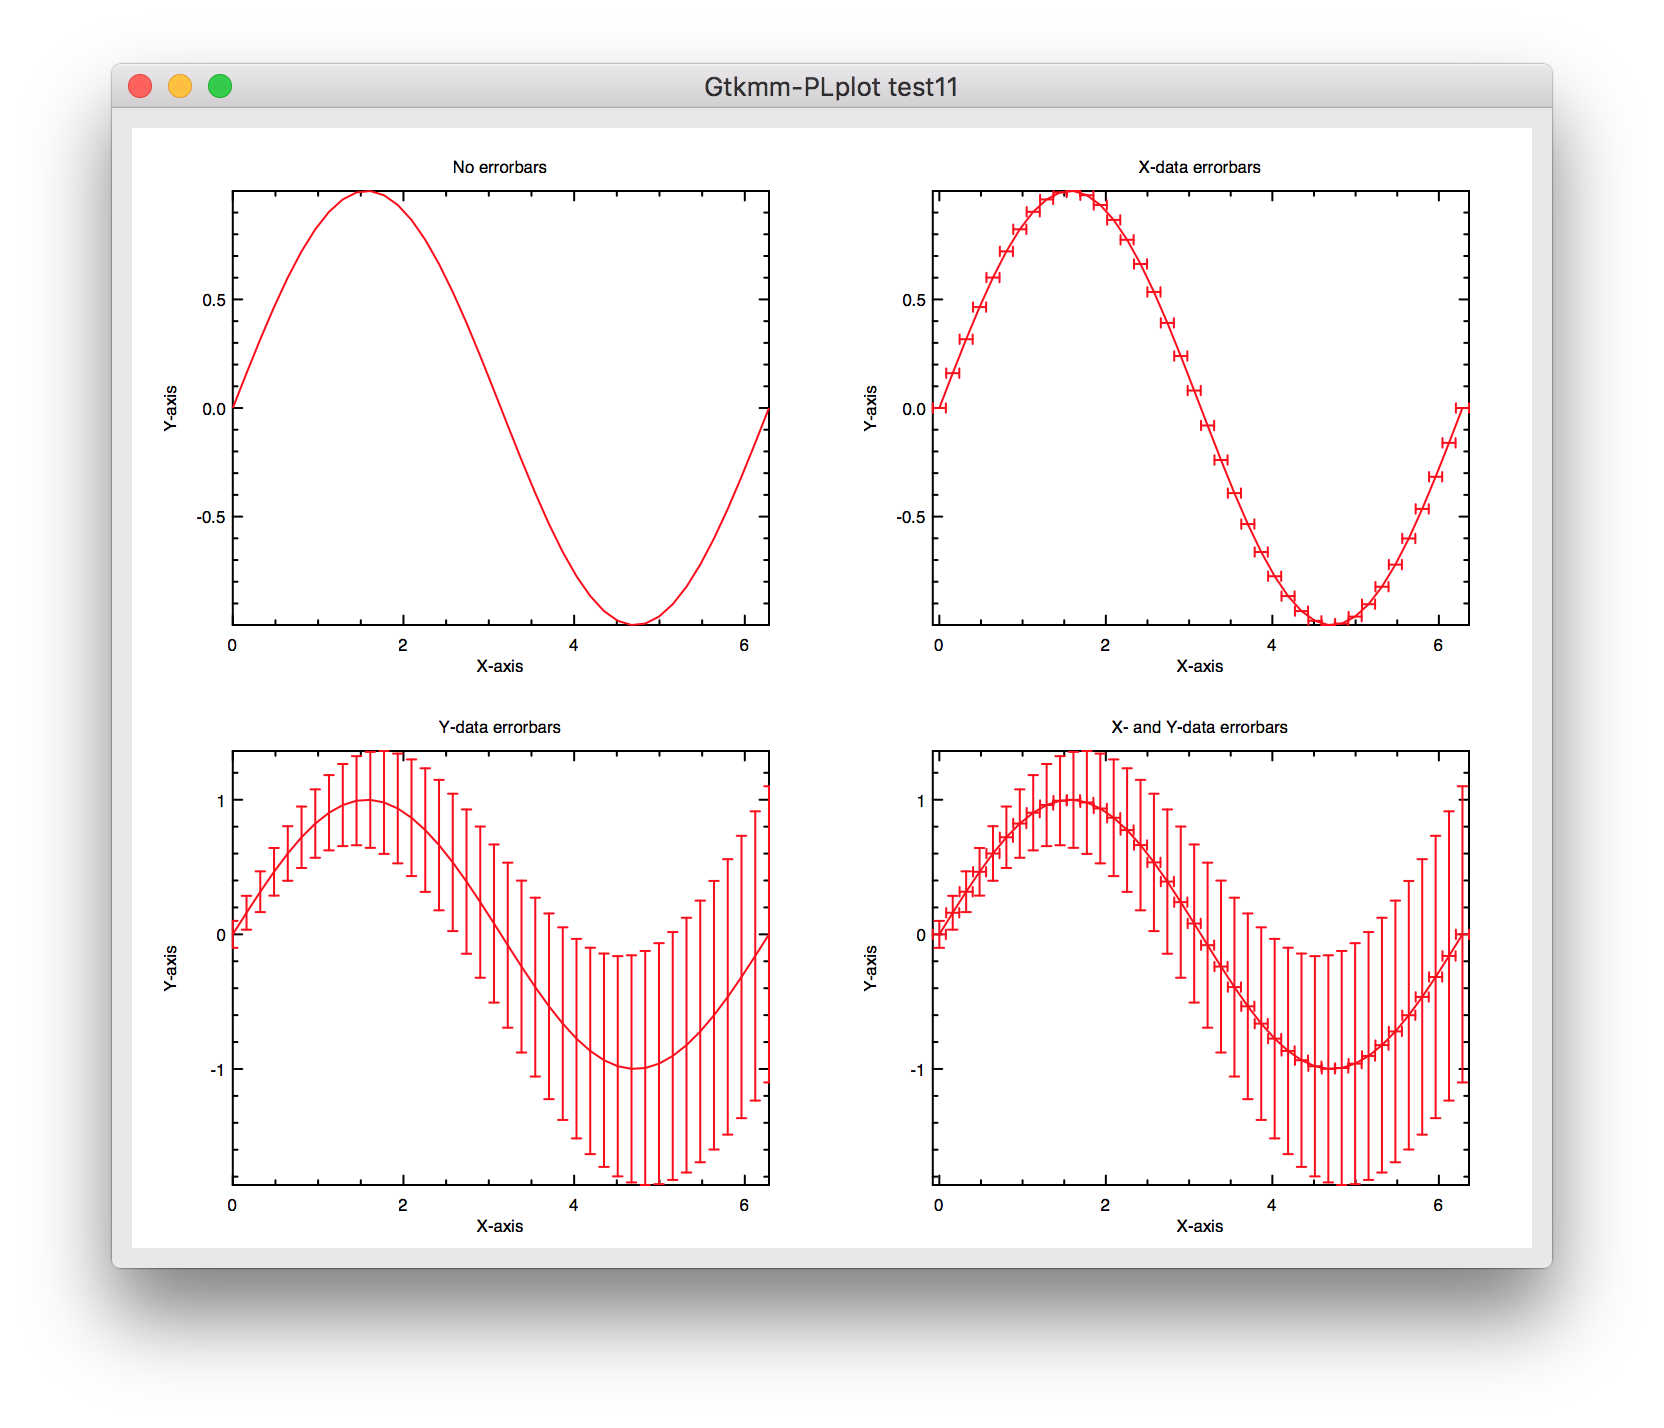
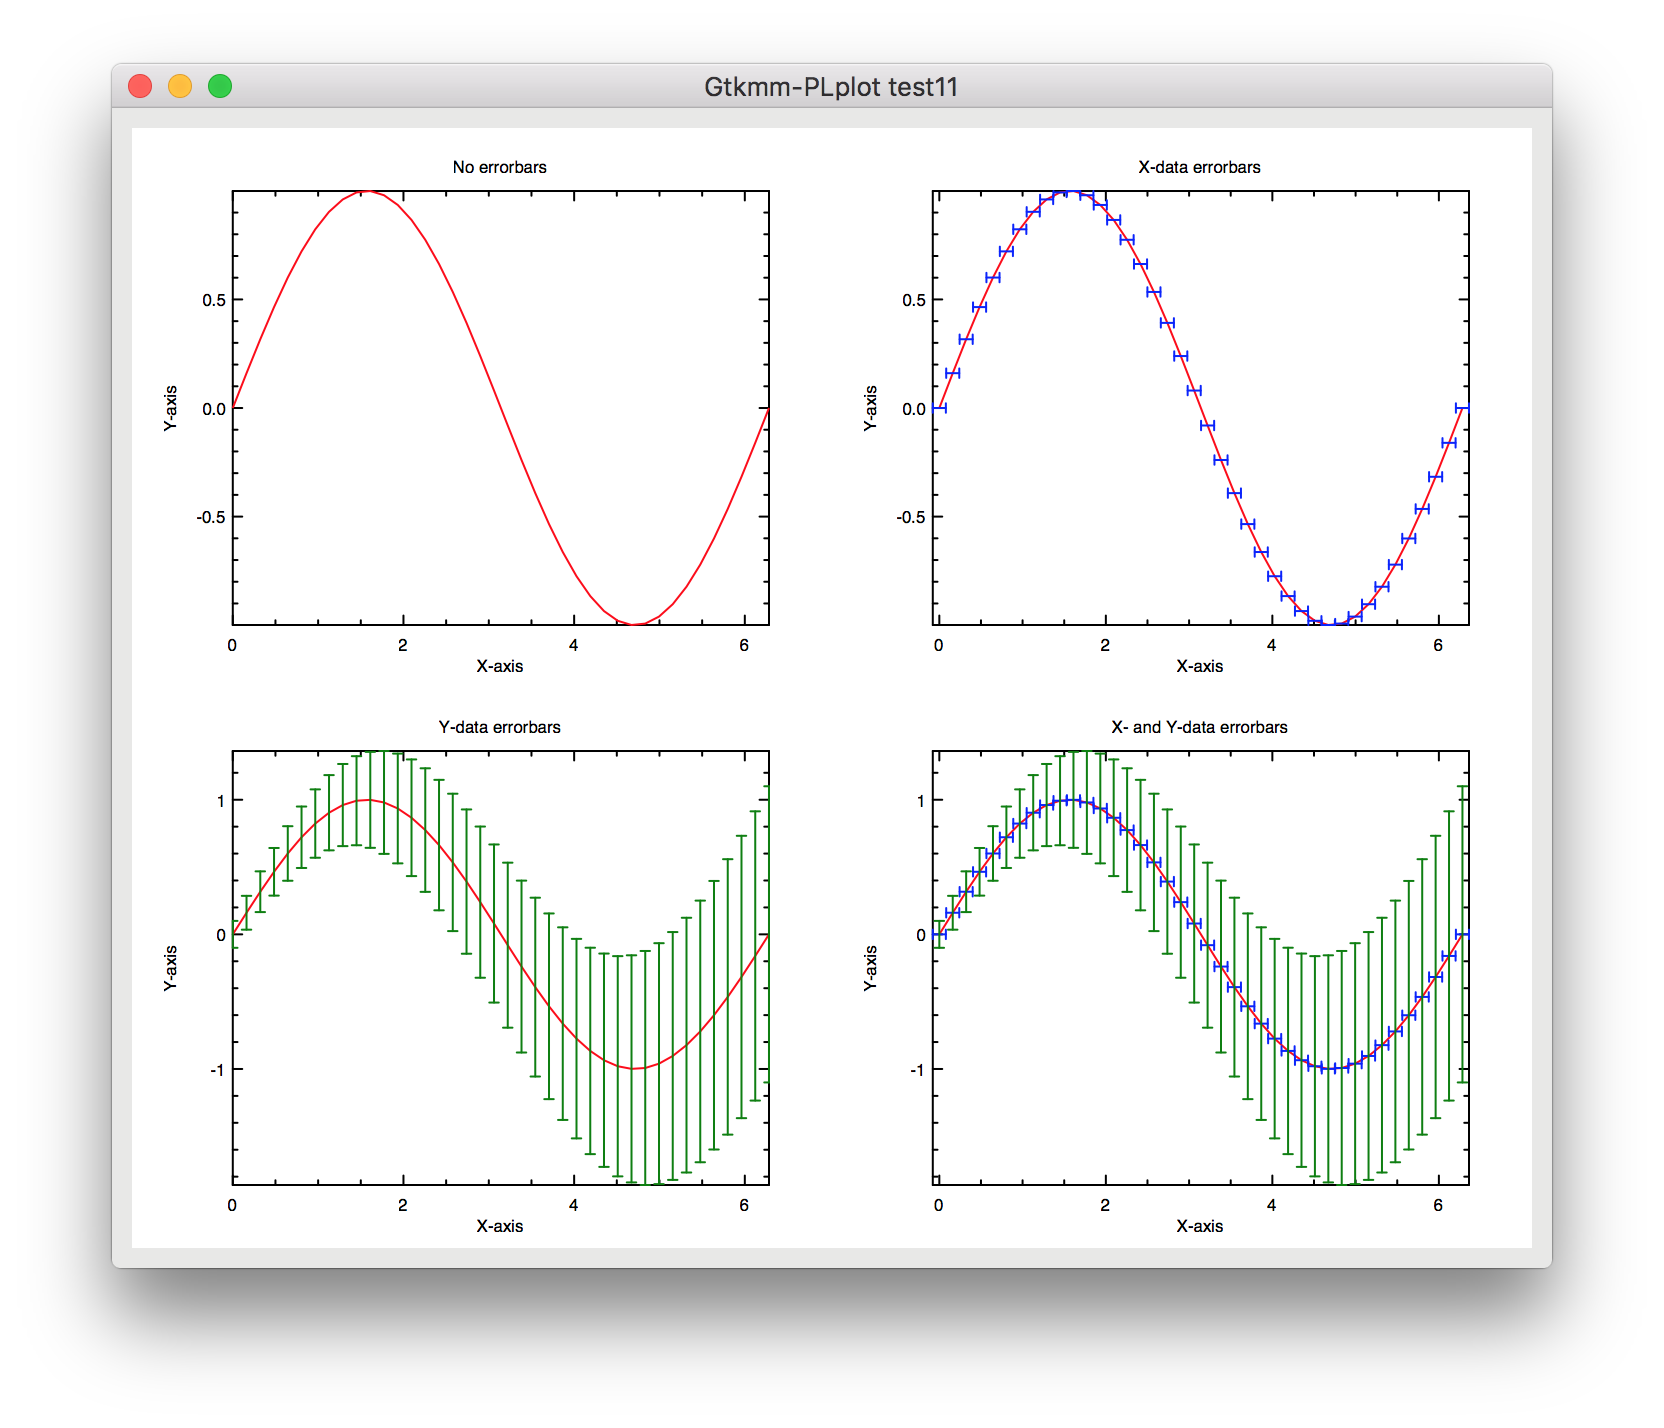
Some more last minute changes...
Some math macros are not part of C++11, so they need to be defined when
I need them

Changed region(s): [[0.1562, 0.5238, 0.4688, 0.8319], [0.5625, 0.5238, 0.875, 0.8319], [0.625, 0.1232, 0.6562, 0.1541]]

diff --git a/tests/test11.cpp b/tests/test11.cpp
@@ -21,6 +21,10 @@ along with this program.  If not, see <http://www.gnu.org/licenses/>.
 #include <gtkmm/window.h>
 #include <valarray>
 
+#ifndef M_PI
+#define M_PI (3.14159265358979323846)
+#endif
+
 namespace Test11 {
   class Window : public Gtk::Window {
   private:
@@ -57,13 +61,19 @@ namespace Test11 {
         plot_2d_error_y(plot_data_2d_error_y, "X-axis", "Y-axis", "Y-data errorbars", 0.5, 0.5, 0.0, 0.5),
         plot_2d_error_xy(plot_data_2d_error_xy, "X-axis", "Y-axis", "X- and Y-data errorbars", 0.5, 0.5, 0.5, 0.5)
     {
-      //no need to show legends
+      // no need to show legends
       plot_2d.hide_legend();
       plot_2d_error_x.hide_legend();
       plot_2d_error_y.hide_legend();
       plot_2d_error_xy.hide_legend();
 
-      //add all plots to the canvas
+      // a some color
+      plot_data_2d_error_x.set_error_x_color(Gdk::RGBA("blue"));
+      plot_data_2d_error_xy.set_error_x_color(Gdk::RGBA("blue"));
+      plot_data_2d_error_y.set_error_y_color(Gdk::RGBA("green"));
+      plot_data_2d_error_xy.set_error_y_color(Gdk::RGBA("green"));
+
+      // add all plots to the canvas
       canvas.add_plot(plot_2d);
       canvas.add_plot(plot_2d_error_x);
       canvas.add_plot(plot_2d_error_y);

diff --git a/tests/test6.cpp b/tests/test6.cpp
@@ -28,6 +28,11 @@ along with this program.  If not, see <http://www.gnu.org/licenses/>.
 #include <gtkmm/comboboxtext.h>
 #include <cmath>
 
+#ifndef M_PI
+#define M_PI (3.14159265358979323846)
+#endif
+
+
 namespace Test6 {
   class Window : public Gtk::Window {
   private:
@@ -59,7 +64,7 @@ namespace Test6 {
 
       //Fermat's spiral
       std::valarray<double> theta2 = Gtk::PLplot::indgen_va(2000)*4.0*M_PI/1999.0;
-      std::valarray<double> r2 = sqrt(theta2) * M_2_SQRTPI * 1.1;
+      std::valarray<double> r2 = sqrt(theta2) * 2.0 / sqrt(M_PI) * 1.1;
 
       auto data2 = Gtk::manage(new Gtk::PLplot::PlotDataPolar(r2, theta2, Gdk::RGBA("green"), Gtk::PLplot::LineStyle::CONTINUOUS, 2.0));
       data2->set_name("Fermat's spiral");

diff --git a/gtkmm-plplot/plotpolar.cpp b/gtkmm-plplot/plotpolar.cpp
@@ -25,6 +25,23 @@ along with this program.  If not, see <http://www.gnu.org/licenses/>.
 #include <cmath>
 #include <sstream>
 
+#ifndef M_SQRT2
+  #define M_SQRT2 (sqrt(2.0))
+#endif
+
+#ifndef M_PI
+  #define M_PI (3.14159265358979323846)
+#endif
+
+#ifndef M_PI_4
+  #define M_PI_4 (M_PI / 4.0)
+#endif
+
+#ifndef M_PI_2
+  #define M_PI_2 (M_PI / 2.0)
+#endif
+
+
 using namespace Gtk::PLplot;
 
 PlotPolar::PlotPolar(
